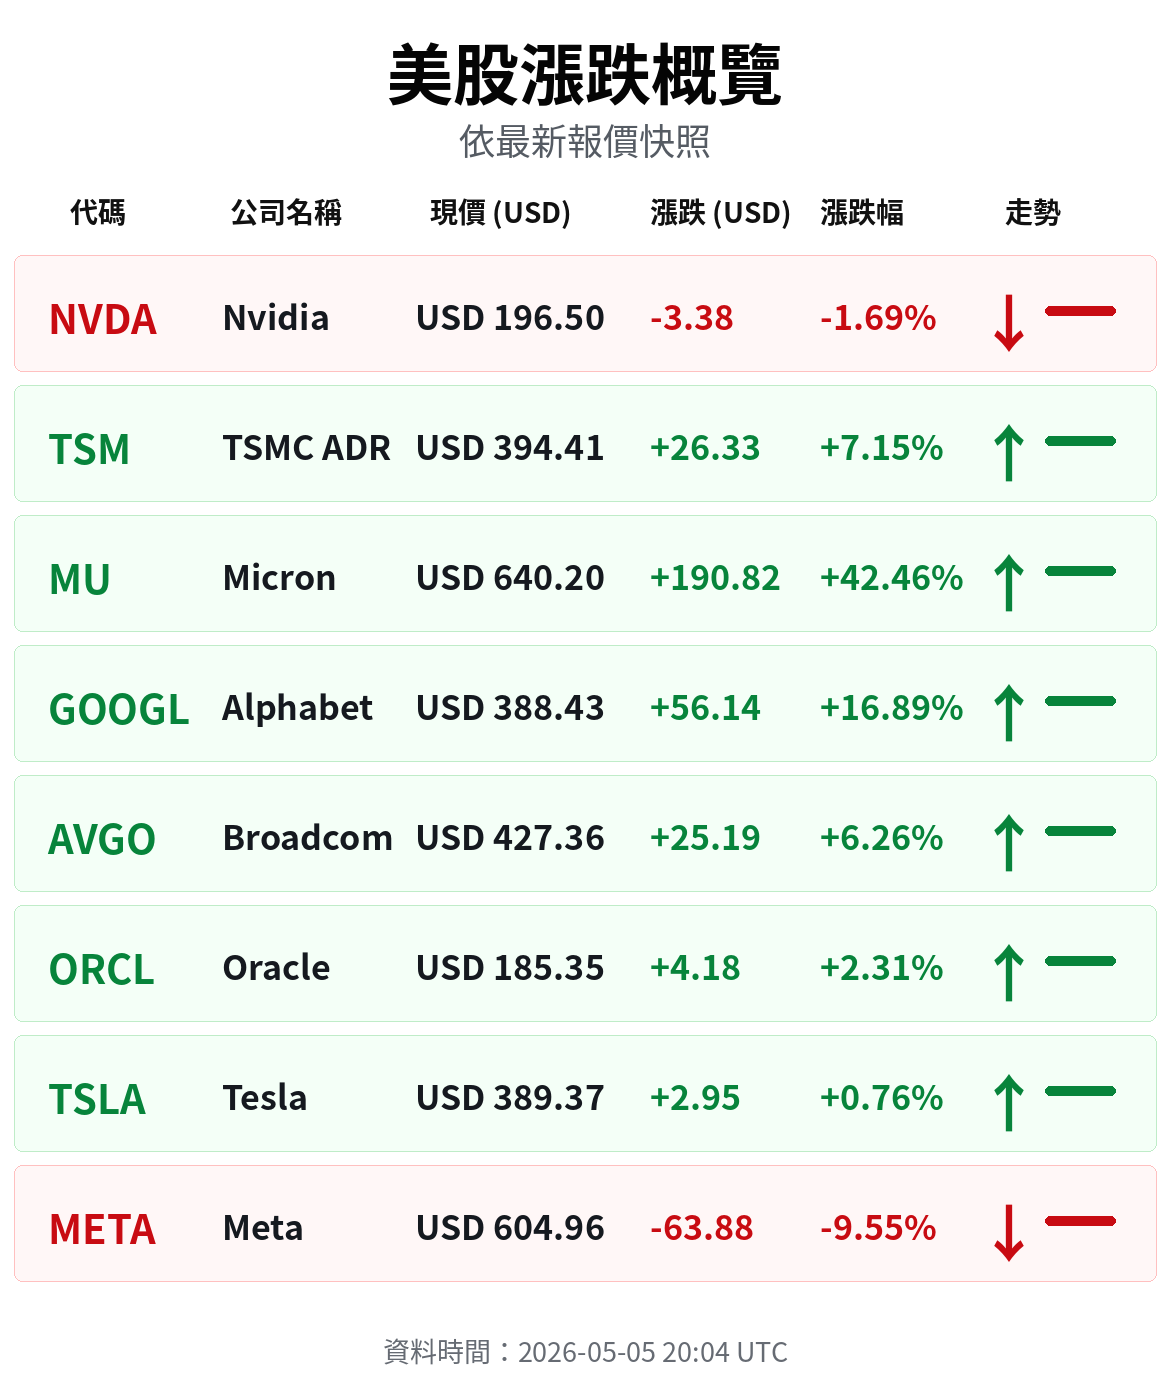
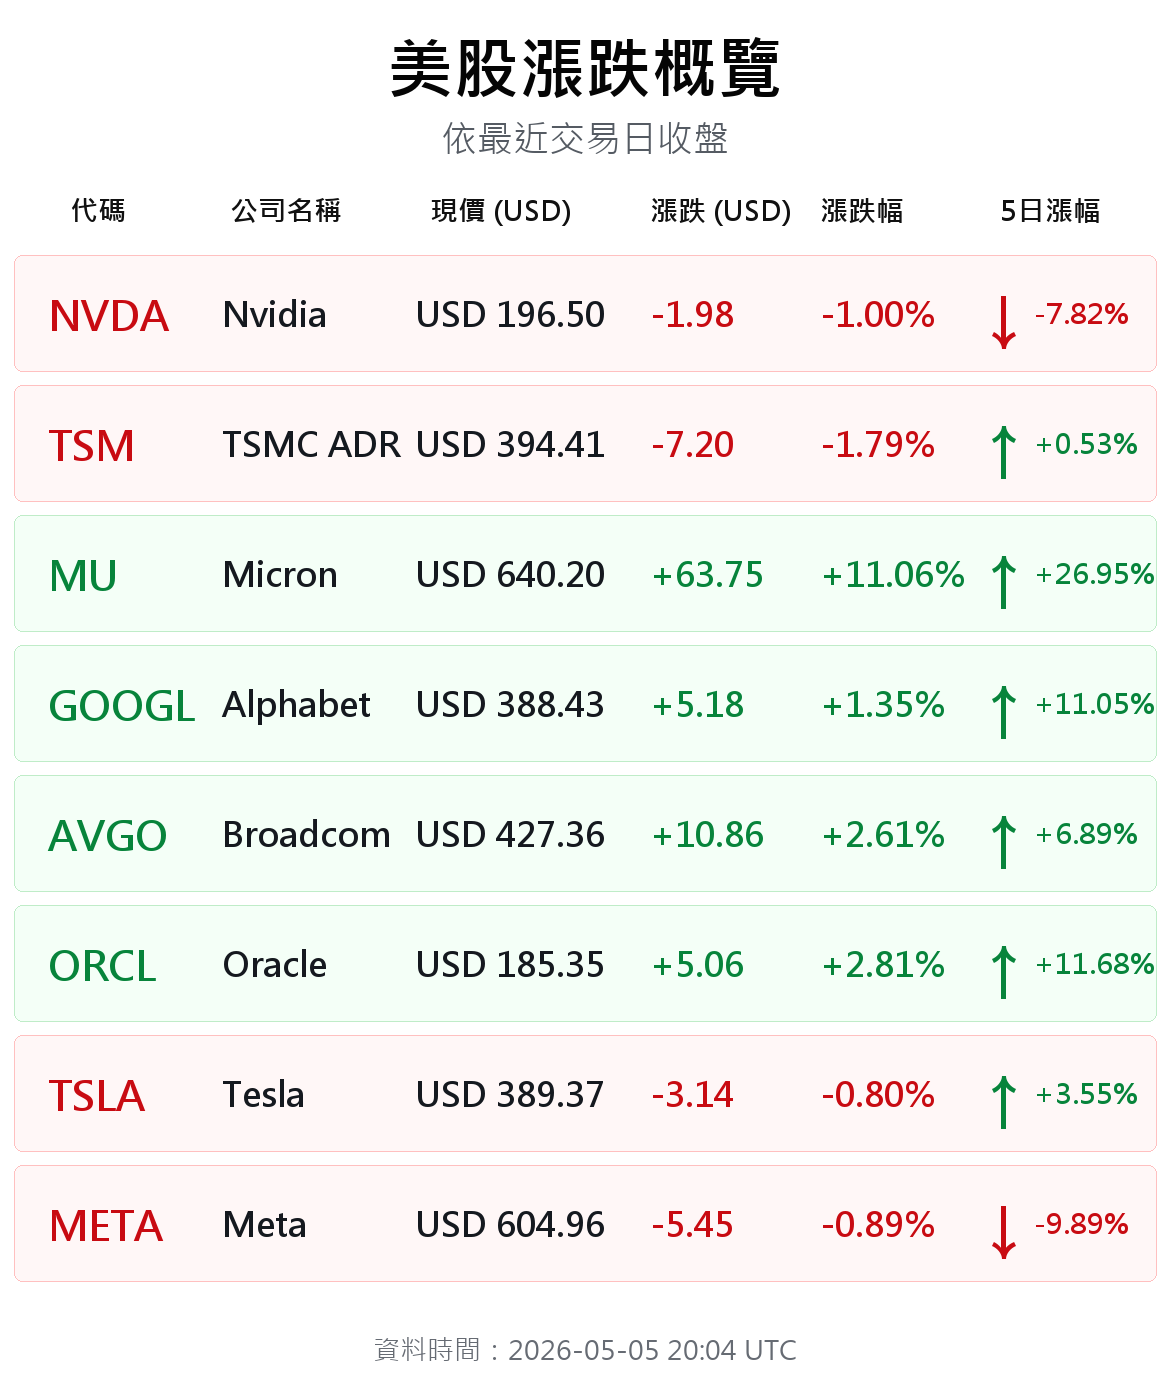
Fix US stock change calculations

diff --git a/scripts/morning_line_digest.py b/scripts/morning_line_digest.py
@@ -4,6 +4,7 @@ import concurrent.futures
 import datetime as dt
 import email.utils
 import os
+import re
 import subprocess
 import sys
 import textwrap
@@ -51,14 +52,14 @@ NEWS_KEYWORDS = (
 )
 
 US_STOCKS = [
-    {"symbol": "NVDA", "name": "Nvidia", "yahoo": "NVDA"},
-    {"symbol": "TSM", "name": "TSMC ADR", "yahoo": "TSM"},
-    {"symbol": "MU", "name": "Micron", "yahoo": "MU"},
-    {"symbol": "GOOGL", "name": "Alphabet", "yahoo": "GOOGL"},
-    {"symbol": "AVGO", "name": "Broadcom", "yahoo": "AVGO"},
-    {"symbol": "ORCL", "name": "Oracle", "yahoo": "ORCL"},
-    {"symbol": "TSLA", "name": "Tesla", "yahoo": "TSLA"},
-    {"symbol": "META", "name": "Meta", "yahoo": "META"},
+    {"symbol": "NVDA", "name": "Nvidia", "zh_name": "輝達", "yahoo": "NVDA"},
+    {"symbol": "TSM", "name": "TSMC ADR", "zh_name": "台積電美國存託憑證", "yahoo": "TSM"},
+    {"symbol": "MU", "name": "Micron", "zh_name": "美光", "yahoo": "MU"},
+    {"symbol": "GOOGL", "name": "Alphabet", "zh_name": "谷歌母公司", "yahoo": "GOOGL"},
+    {"symbol": "AVGO", "name": "Broadcom", "zh_name": "博通", "yahoo": "AVGO"},
+    {"symbol": "ORCL", "name": "Oracle", "zh_name": "甲骨文", "yahoo": "ORCL"},
+    {"symbol": "TSLA", "name": "Tesla", "zh_name": "特斯拉", "yahoo": "TSLA"},
+    {"symbol": "META", "name": "Meta", "zh_name": "臉書母公司", "yahoo": "META"},
 ]
 
 TW_STOCKS = [
@@ -165,6 +166,10 @@ def quote_price(quote: dict[str, Any]) -> float | None:
     return to_float(quote.get("regularMarketPrice"))
 
 
+def quote_five_day_pct(quote: dict[str, Any]) -> float | None:
+    return to_float(quote.get("fiveDayChangePercent"))
+
+
 def market_time_utc(quotes: list[dict[str, Any]]) -> dt.datetime | None:
     timestamps = [
         int(q["regularMarketTime"])
@@ -238,13 +243,14 @@ def fetch_yahoo_chart_quote(symbol: str) -> dict[str, Any]:
         return {}
 
     last_ts, last_close = valid_closes[-1]
-    previous_close = to_float(meta.get("previousClose")) or to_float(meta.get("chartPreviousClose"))
-    if previous_close is None and len(valid_closes) >= 2:
-        previous_close = valid_closes[-2][1]
-    price = to_float(meta.get("regularMarketPrice")) or last_close
+    previous_close = valid_closes[-2][1] if len(valid_closes) >= 2 else None
+    five_day_base = valid_closes[-6][1] if len(valid_closes) >= 6 else valid_closes[0][1]
+    price = last_close
     market_time = int(meta.get("regularMarketTime") or last_ts)
     change = price - previous_close if previous_close else 0.0
     change_pct = (change / previous_close * 100.0) if previous_close else None
+    five_day_change = price - five_day_base if five_day_base else 0.0
+    five_day_change_pct = (five_day_change / five_day_base * 100.0) if five_day_base else None
 
     return {
         "symbol": symbol,
@@ -252,6 +258,8 @@ def fetch_yahoo_chart_quote(symbol: str) -> dict[str, Any]:
         "regularMarketPrice": price,
         "regularMarketChange": change,
         "regularMarketChangePercent": change_pct,
+        "fiveDayChange": five_day_change,
+        "fiveDayChangePercent": five_day_change_pct,
         "regularMarketTime": market_time,
     }
 
@@ -366,13 +374,14 @@ def attach_short_links(news: dict[str, list[NewsItem]]) -> None:
 def collect_news(lookback_days: int = 2) -> dict[str, list[NewsItem]]:
     queries: dict[str, tuple[str, str]] = {}
     for stock in US_STOCKS:
+        zh_name = stock.get("zh_name", stock["name"])
         queries[stock["symbol"]] = (
             (
-                f'"{stock["symbol"]}" "{stock["name"]}" '
-                f"(ESP OR EPS OR earnings OR revenue OR outlook OR guidance) "
+                f'"{stock["symbol"]}" "{stock["name"]}" "{zh_name}" '
+                f"(ESP OR EPS OR 財報 OR 營收 OR 展望 OR 財測 OR 法說 OR earnings OR revenue OR outlook OR guidance) "
                 f"when:{lookback_days}d"
             ),
-            "us",
+            "tw",
         )
     for stock in TW_STOCKS:
         plain_symbol = stock["symbol"].split(".")[0]
@@ -480,7 +489,7 @@ def generate_us_overview_image(
     footer_font = load_font(27)
 
     draw_centered(draw, (width // 2, 22), "美股漲跌概覽", title_font, "#050505")
-    draw_centered(draw, (width // 2, 113), "依最新報價快照", subtitle_font, "#555b63")
+    draw_centered(draw, (width // 2, 113), "依最近交易日收盤", subtitle_font, "#555b63")
 
     headers = [
         ("代碼", 70),
@@ -488,7 +497,7 @@ def generate_us_overview_image(
         ("現價 (USD)", 430),
         ("漲跌 (USD)", 650),
         ("漲跌幅", 820),
-        ("走勢", 1005),
+        ("5日漲幅", 1000),
     ]
     for label, x in headers:
         draw.text((x, 190), label, font=header_font, fill="#111111")
@@ -498,22 +507,33 @@ def generate_us_overview_image(
         quote = quotes.get(stock["yahoo"], {})
         change = quote_change(quote)
         pct = quote.get("regularMarketChangePercent")
+        five_day_pct = quote_five_day_pct(quote)
         price = quote_price(quote)
 
         if change > 0:
             color = "#07843b"
             fill = "#f4fff7"
             border = "#bfecc8"
-            arrow = "↑"
         elif change < 0:
             color = "#c80b12"
             fill = "#fff7f7"
             border = "#ffc0c0"
-            arrow = "↓"
         else:
             color = "#666666"
             fill = "#f8f8f8"
             border = "#d6d6d6"
+
+        if five_day_pct is None:
+            trend_color = "#666666"
+            arrow = "→"
+        elif five_day_pct > 0:
+            trend_color = "#07843b"
+            arrow = "↑"
+        elif five_day_pct < 0:
+            trend_color = "#c80b12"
+            arrow = "↓"
+        else:
+            trend_color = "#666666"
             arrow = "→"
 
         draw.rounded_rectangle(
@@ -528,8 +548,8 @@ def generate_us_overview_image(
         draw.text((415, y + 35), f"USD {fmt_num(price)}", font=body_font, fill="#15191f")
         draw.text((650, y + 35), fmt_num(change, sign=True), font=body_font, fill=color)
         draw.text((820, y + 35), fmt_pct(pct), font=body_font, fill=color)
-        draw.text((978, y + 20), arrow, font=trend_font, fill=color)
-        draw.rounded_rectangle((1045, y + 51, 1115, y + 60), radius=5, fill=color)
+        draw.text((972, y + 20), arrow, font=trend_font, fill=trend_color)
+        draw.text((1034, y + 38), fmt_pct(five_day_pct), font=header_font, fill=trend_color)
 
     utc_time = market_time_utc([quotes.get(s["yahoo"], {}) for s in US_STOCKS])
     time_text = utc_time.strftime("%Y-%m-%d %H:%M UTC") if utc_time else "N/A"
@@ -603,8 +623,10 @@ def build_flex_message(quotes: dict[str, dict[str, Any]]) -> dict[str, Any]:
     for stock in US_STOCKS:
         quote = quotes.get(stock["yahoo"], {})
         change = quote_change(quote)
-        color = "#07843B" if change > 0 else "#C80B12" if change < 0 else "#666666"
-        arrow = "↑" if change > 0 else "↓" if change < 0 else "→"
+        daily_color = "#07843B" if change > 0 else "#C80B12" if change < 0 else "#666666"
+        five_day_pct = quote_five_day_pct(quote)
+        trend_color = "#07843B" if (five_day_pct or 0) > 0 else "#C80B12" if (five_day_pct or 0) < 0 else "#666666"
+        arrow = "↑" if (five_day_pct or 0) > 0 else "↓" if (five_day_pct or 0) < 0 else "→"
         rows.append(
             {
                 "type": "box",
@@ -612,11 +634,11 @@ def build_flex_message(quotes: dict[str, dict[str, Any]]) -> dict[str, Any]:
                 "paddingAll": "8px",
                 "backgroundColor": "#F4FFF7" if change > 0 else "#FFF7F7" if change < 0 else "#F8F8F8",
                 "contents": [
-                    {"type": "text", "text": stock["symbol"], "weight": "bold", "size": "md", "color": color, "flex": 2},
+                    {"type": "text", "text": stock["symbol"], "weight": "bold", "size": "md", "color": daily_color, "flex": 2},
                     {"type": "text", "text": stock["name"], "size": "sm", "color": "#111111", "flex": 3},
                     {"type": "text", "text": f"USD {fmt_num(quote_price(quote))}", "size": "sm", "align": "end", "flex": 3},
-                    {"type": "text", "text": fmt_pct(quote.get("regularMarketChangePercent")), "size": "sm", "align": "end", "color": color, "flex": 2},
-                    {"type": "text", "text": arrow, "size": "xl", "align": "end", "color": color, "flex": 1},
+                    {"type": "text", "text": fmt_pct(quote.get("regularMarketChangePercent")), "size": "sm", "align": "end", "color": daily_color, "flex": 2},
+                    {"type": "text", "text": f"{arrow} {fmt_pct(five_day_pct)}", "size": "sm", "align": "end", "color": trend_color, "flex": 2},
                 ],
             }
         )
@@ -635,7 +657,7 @@ def build_flex_message(quotes: dict[str, dict[str, Any]]) -> dict[str, Any]:
                 "spacing": "md",
                 "contents": [
                     {"type": "text", "text": "美股漲跌概覽", "weight": "bold", "size": "xxl", "align": "center"},
-                    {"type": "text", "text": "依最新報價快照", "size": "sm", "color": "#666666", "align": "center"},
+                    {"type": "text", "text": "依最近交易日收盤；右欄為5日漲幅", "size": "sm", "color": "#666666", "align": "center"},
                     {"type": "separator", "margin": "md"},
                     *rows,
                     {"type": "separator", "margin": "md"},
@@ -646,16 +668,88 @@ def build_flex_message(quotes: dict[str, dict[str, Any]]) -> dict[str, Any]:
     }
 
 
+def stock_chinese_name(stock: dict[str, str]) -> str:
+    return stock.get("zh_name") or stock["name"]
+
+
+def has_cjk(text: str) -> bool:
+    return any("\u4e00" <= char <= "\u9fff" for char in text)
+
+
+def strip_news_source_suffix(title: str) -> str:
+    if " - " not in title:
+        return title.strip()
+    return title.rsplit(" - ", 1)[0].strip()
+
+
+def normalize_chinese_news_title(title: str) -> str:
+    replacements = (
+        ("TSMC", "台積電"),
+        ("NVIDIA", "輝達"),
+        ("NVDA", "輝達"),
+        ("MICRON", "美光"),
+        ("AMD", "超微"),
+        ("AAPL", "蘋果"),
+        ("AVGO", "博通"),
+        ("ORCL", "甲骨文"),
+        ("TSLA", "特斯拉"),
+        ("META", "臉書母公司"),
+        ("ASIC", "特殊應用積體電路"),
+        ("NAND", "快閃記憶體"),
+        ("EPS", "每股盈餘"),
+        ("ESP", "每股盈餘預估"),
+        ("ETF", "指數股票型基金"),
+        ("AI", "人工智慧"),
+        ("PO", "發布"),
+    )
+    normalized = title
+    for old, new in replacements:
+        normalized = re.sub(re.escape(old), new, normalized, flags=re.IGNORECASE)
+    normalized = re.sub(r"Q([1-4])", lambda match: f"第{match.group(1)}季", normalized, flags=re.IGNORECASE)
+    normalized = re.sub(r"^\d{4}(?:\.(?:TW|TWO))?\s+", "", normalized)
+    normalized = re.sub(r"\((?:[A-Z]{1,6}|\d{4}(?:\.(?:TW|TWO))?)\)", "", normalized)
+    normalized = re.sub(r"[A-Za-z]+", "", normalized)
+    normalized = re.sub(r"[^\w\s\u4e00-\u9fff，。！？、：；（）《》「」『』【】／/\-+.%]", "", normalized)
+    normalized = normalized.replace("蘋果蘋果", "蘋果")
+    normalized = normalized.replace("-最新", "最新")
+    normalized = re.sub(r"\s+", " ", normalized).strip()
+    return normalized
+
+
+def infer_news_topics(title: str) -> str:
+    lower = title.lower()
+    topics: list[str] = []
+    checks = (
+        ("每股盈餘", ("eps", "esp", "每股盈餘")),
+        ("財報", ("earnings", "earning", "results", "財報", "法說")),
+        ("營收", ("revenue", "sales", "營收")),
+        ("展望", ("outlook", "guidance", "forecast", "展望", "財測")),
+        ("獲利", ("profit", "獲利")),
+    )
+    for label, keywords in checks:
+        if any(keyword in lower for keyword in keywords):
+            topics.append(label)
+    if not topics:
+        topics.append("營運展望")
+    return "、".join(dict.fromkeys(topics))
+
+
+def chinese_news_title(stock: dict[str, str], item: NewsItem) -> str:
+    title = strip_news_source_suffix(item.title)
+    if has_cjk(title):
+        return short_text(normalize_chinese_news_title(title), 84)
+    return f"{stock_chinese_name(stock)}：{infer_news_topics(title)}相關報導"
+
+
 def stock_news_lines(stock: dict[str, str], news: dict[str, list[NewsItem]]) -> list[str]:
     items = news.get(stock["symbol"]) or news.get(stock["yahoo"]) or []
     if not items:
         return []
 
-    lines = [f"{stock['symbol']} {stock['name']}"]
+    lines = [f"{stock['symbol']} {stock_chinese_name(stock)}"]
     for item in items:
-        source = f" - {item.source}" if item.source else ""
         link = item.short_link or item.link
-        lines.append(f"- {short_text(item.title, 84)}{source}")
+        lines.append(f"- {chinese_news_title(stock, item)}")
         lines.append(link)
     return lines
 
@@ -669,8 +763,8 @@ def build_text_digest(
     today = now_taipei().strftime("%Y-%m-%d")
     footer = f"本月LINE訊息: {estimated_usage_after_send} / {display_limit}"
     lines = [
-        f"ESP/營收/展望新聞 {today}",
-        "範圍: 最近2天內相關新聞；無符合條件的股票已省略。",
+        f"每股盈餘/營收/展望新聞 {today}",
+        "範圍: 最近2天內相關新聞；標題以中文顯示，無符合條件的股票已省略。",
         "",
     ]
     added_any = False
@@ -702,7 +796,7 @@ def build_text_digest(
         lines.append("")
     add_stock_group(TW_STOCKS)
     if not added_any:
-        lines.append("近2天未見 ESP/EPS、營收、展望相關新聞。")
+        lines.append("近2天未見每股盈餘、營收、展望相關新聞。")
     lines.extend(["", footer])
     return "\n".join(lines)[:5000]
 